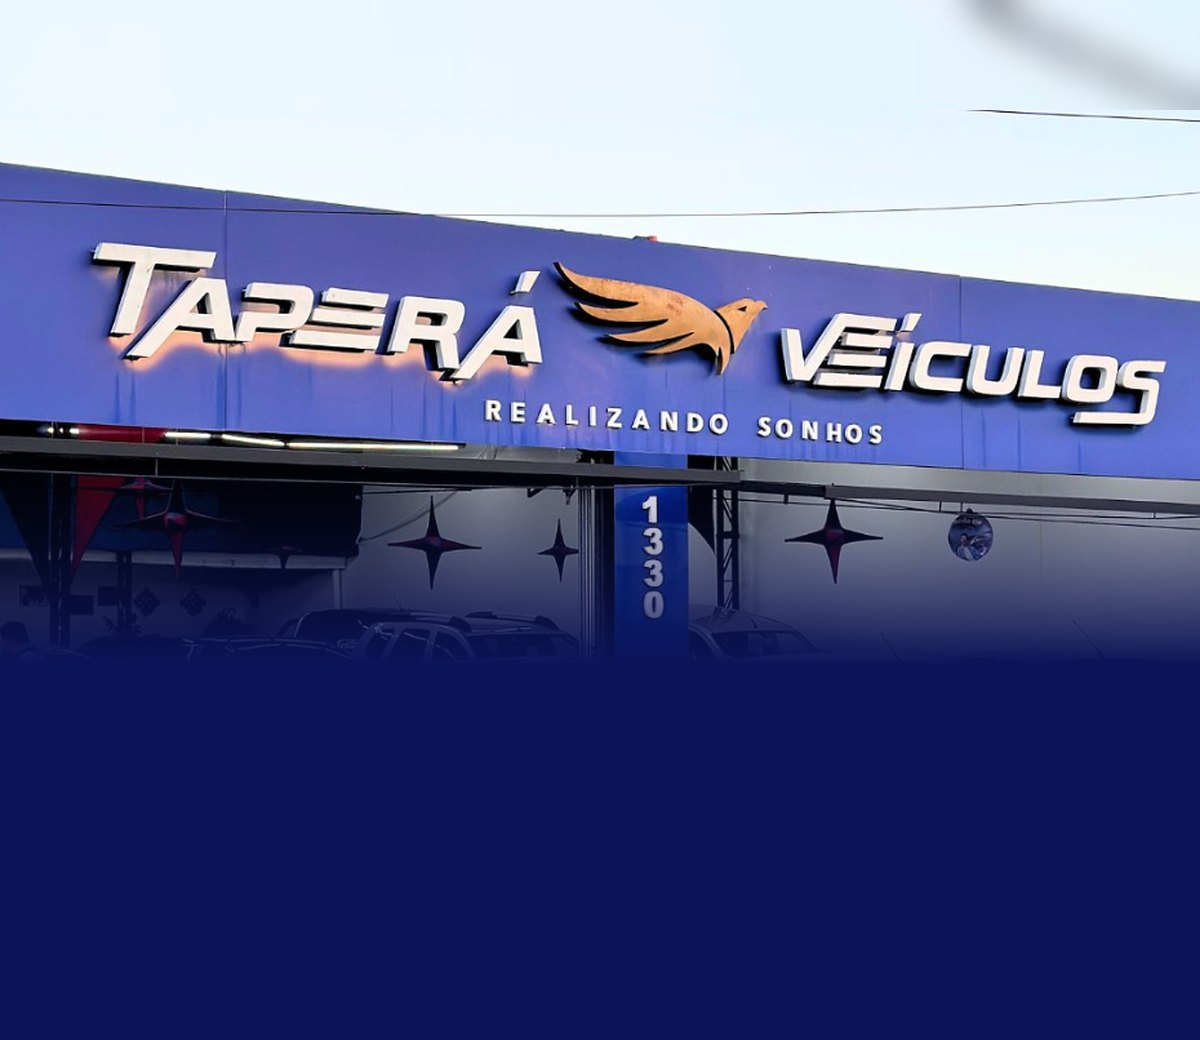
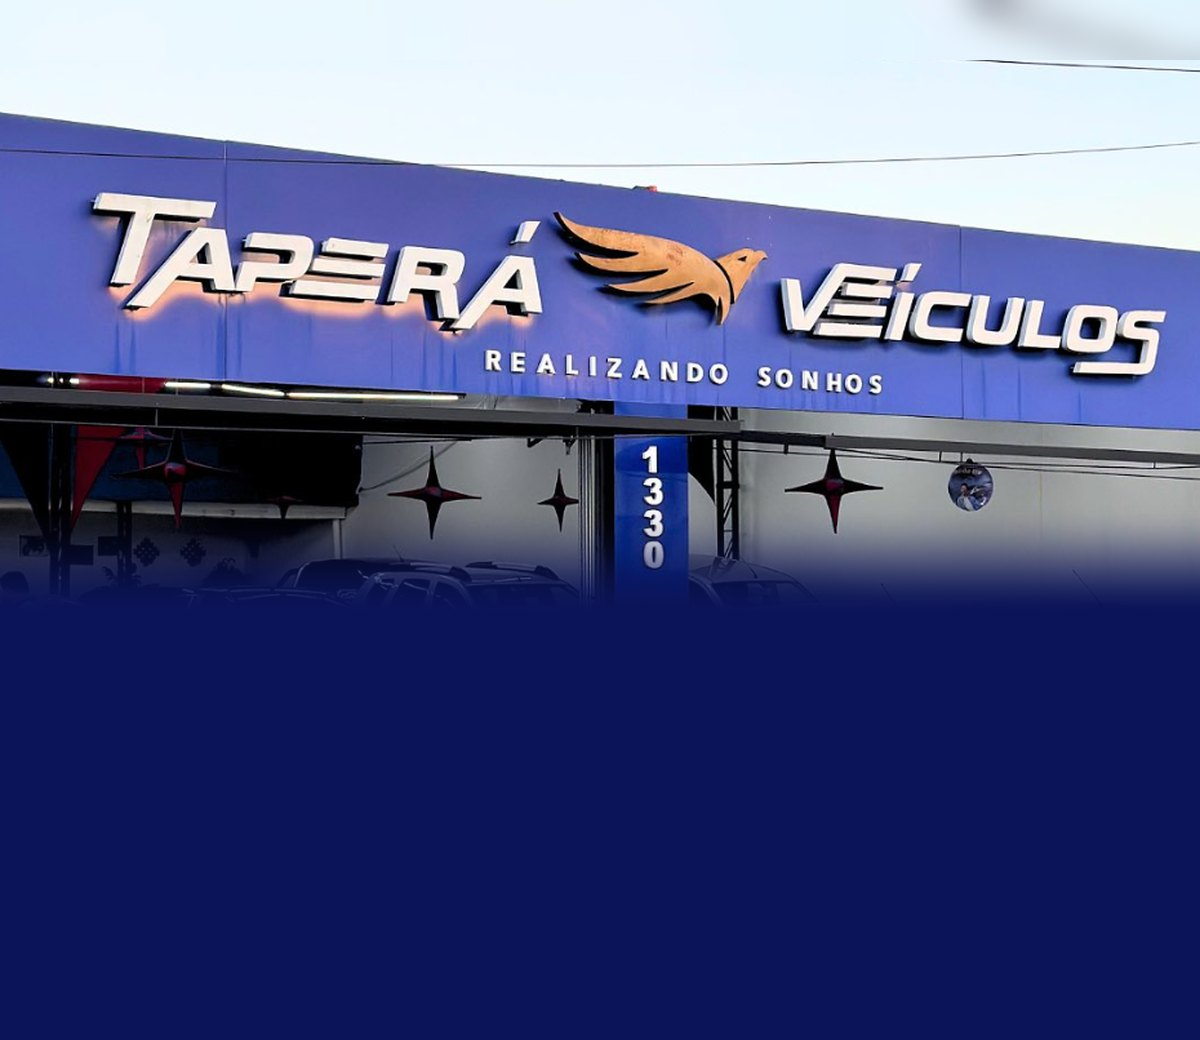
fix(spazioerikacarmuratti, taperaveiculos): degradê da capa mais curto para mostrar mais a foto

diff --git a/spazioerikacarmuratti/index.html b/spazioerikacarmuratti/index.html
@@ -66,7 +66,7 @@ p{margin:0;text-wrap:pretty}
 
 .cover{position:relative;height:var(--cover);overflow:hidden;background:var(--bg)}
 .cover__bg{width:100%;height:100%;object-fit:cover;object-position:50% 50%;transform:scale(1.04)}
-.cover::after{content:"";position:absolute;inset:0 0 -2px;background:linear-gradient(180deg,rgba(0,0,0,.32) 0%,rgba(0,0,0,0) 38%,rgba(247,240,234,0) 48%,rgba(247,240,234,.35) 62%,rgba(247,240,234,.72) 76%,rgba(247,240,234,.93) 88%,var(--bg) 97%)}
+.cover::after{content:"";position:absolute;inset:0 0 -2px;background:linear-gradient(180deg,rgba(0,0,0,.32) 0%,rgba(0,0,0,0) 38%,rgba(247,240,234,0) 70%,rgba(247,240,234,.45) 82%,rgba(247,240,234,.85) 92%,var(--bg) 99%)}
 .chip{position:absolute;z-index:2;transform:translateZ(0);backface-visibility:hidden;top:calc(1rem + env(safe-area-inset-top));left:var(--pad);display:inline-flex;align-items:center;gap:.45rem;padding:.45rem .85rem;border-radius:999px;font-size:.78rem;font-weight:700;letter-spacing:.04em;color:#fff;
   background:rgba(42,28,26,.62);border:1px solid rgba(255,255,255,.25);-webkit-backdrop-filter:blur(14px);backdrop-filter:blur(14px);box-shadow:inset 0 1px 0 rgba(255,255,255,.2)}
 .chip svg{width:14px;height:14px}

diff --git a/taperaveiculos/index.html b/taperaveiculos/index.html
@@ -67,7 +67,7 @@ p{margin:0;text-wrap:pretty}
 
 .cover{position:relative;height:var(--cover);overflow:hidden;background:var(--bg)}
 .cover__bg{width:100%;height:100%;object-fit:cover;object-position:50% 0%;transform:scale(1.04);transform-origin:50% 0}
-.cover::after{content:"";position:absolute;inset:0 0 -2px;background:linear-gradient(180deg,rgba(0,0,0,.25) 0%,rgba(0,0,0,.1) 45%,var(--bg) 100%)}
+.cover::after{content:"";position:absolute;inset:0 0 -2px;background:linear-gradient(180deg,rgba(0,0,0,.25) 0%,rgba(0,0,0,.06) 40%,rgba(11,20,88,0) 68%,rgba(11,20,88,.5) 82%,rgba(11,20,88,.88) 92%,var(--bg) 99%)}
 .chip{position:absolute;z-index:2;transform:translateZ(0);backface-visibility:hidden;top:calc(1rem + env(safe-area-inset-top));left:var(--pad);display:inline-flex;align-items:center;gap:.45rem;padding:.45rem .85rem;border-radius:999px;font-size:.78rem;font-weight:700;letter-spacing:.04em;color:#fff;
   background:rgba(0,0,0,.5);border:1px solid rgba(255,255,255,.22);-webkit-backdrop-filter:blur(14px);backdrop-filter:blur(14px);box-shadow:inset 0 1px 0 rgba(255,255,255,.2)}
 .chip svg{width:14px;height:14px}
